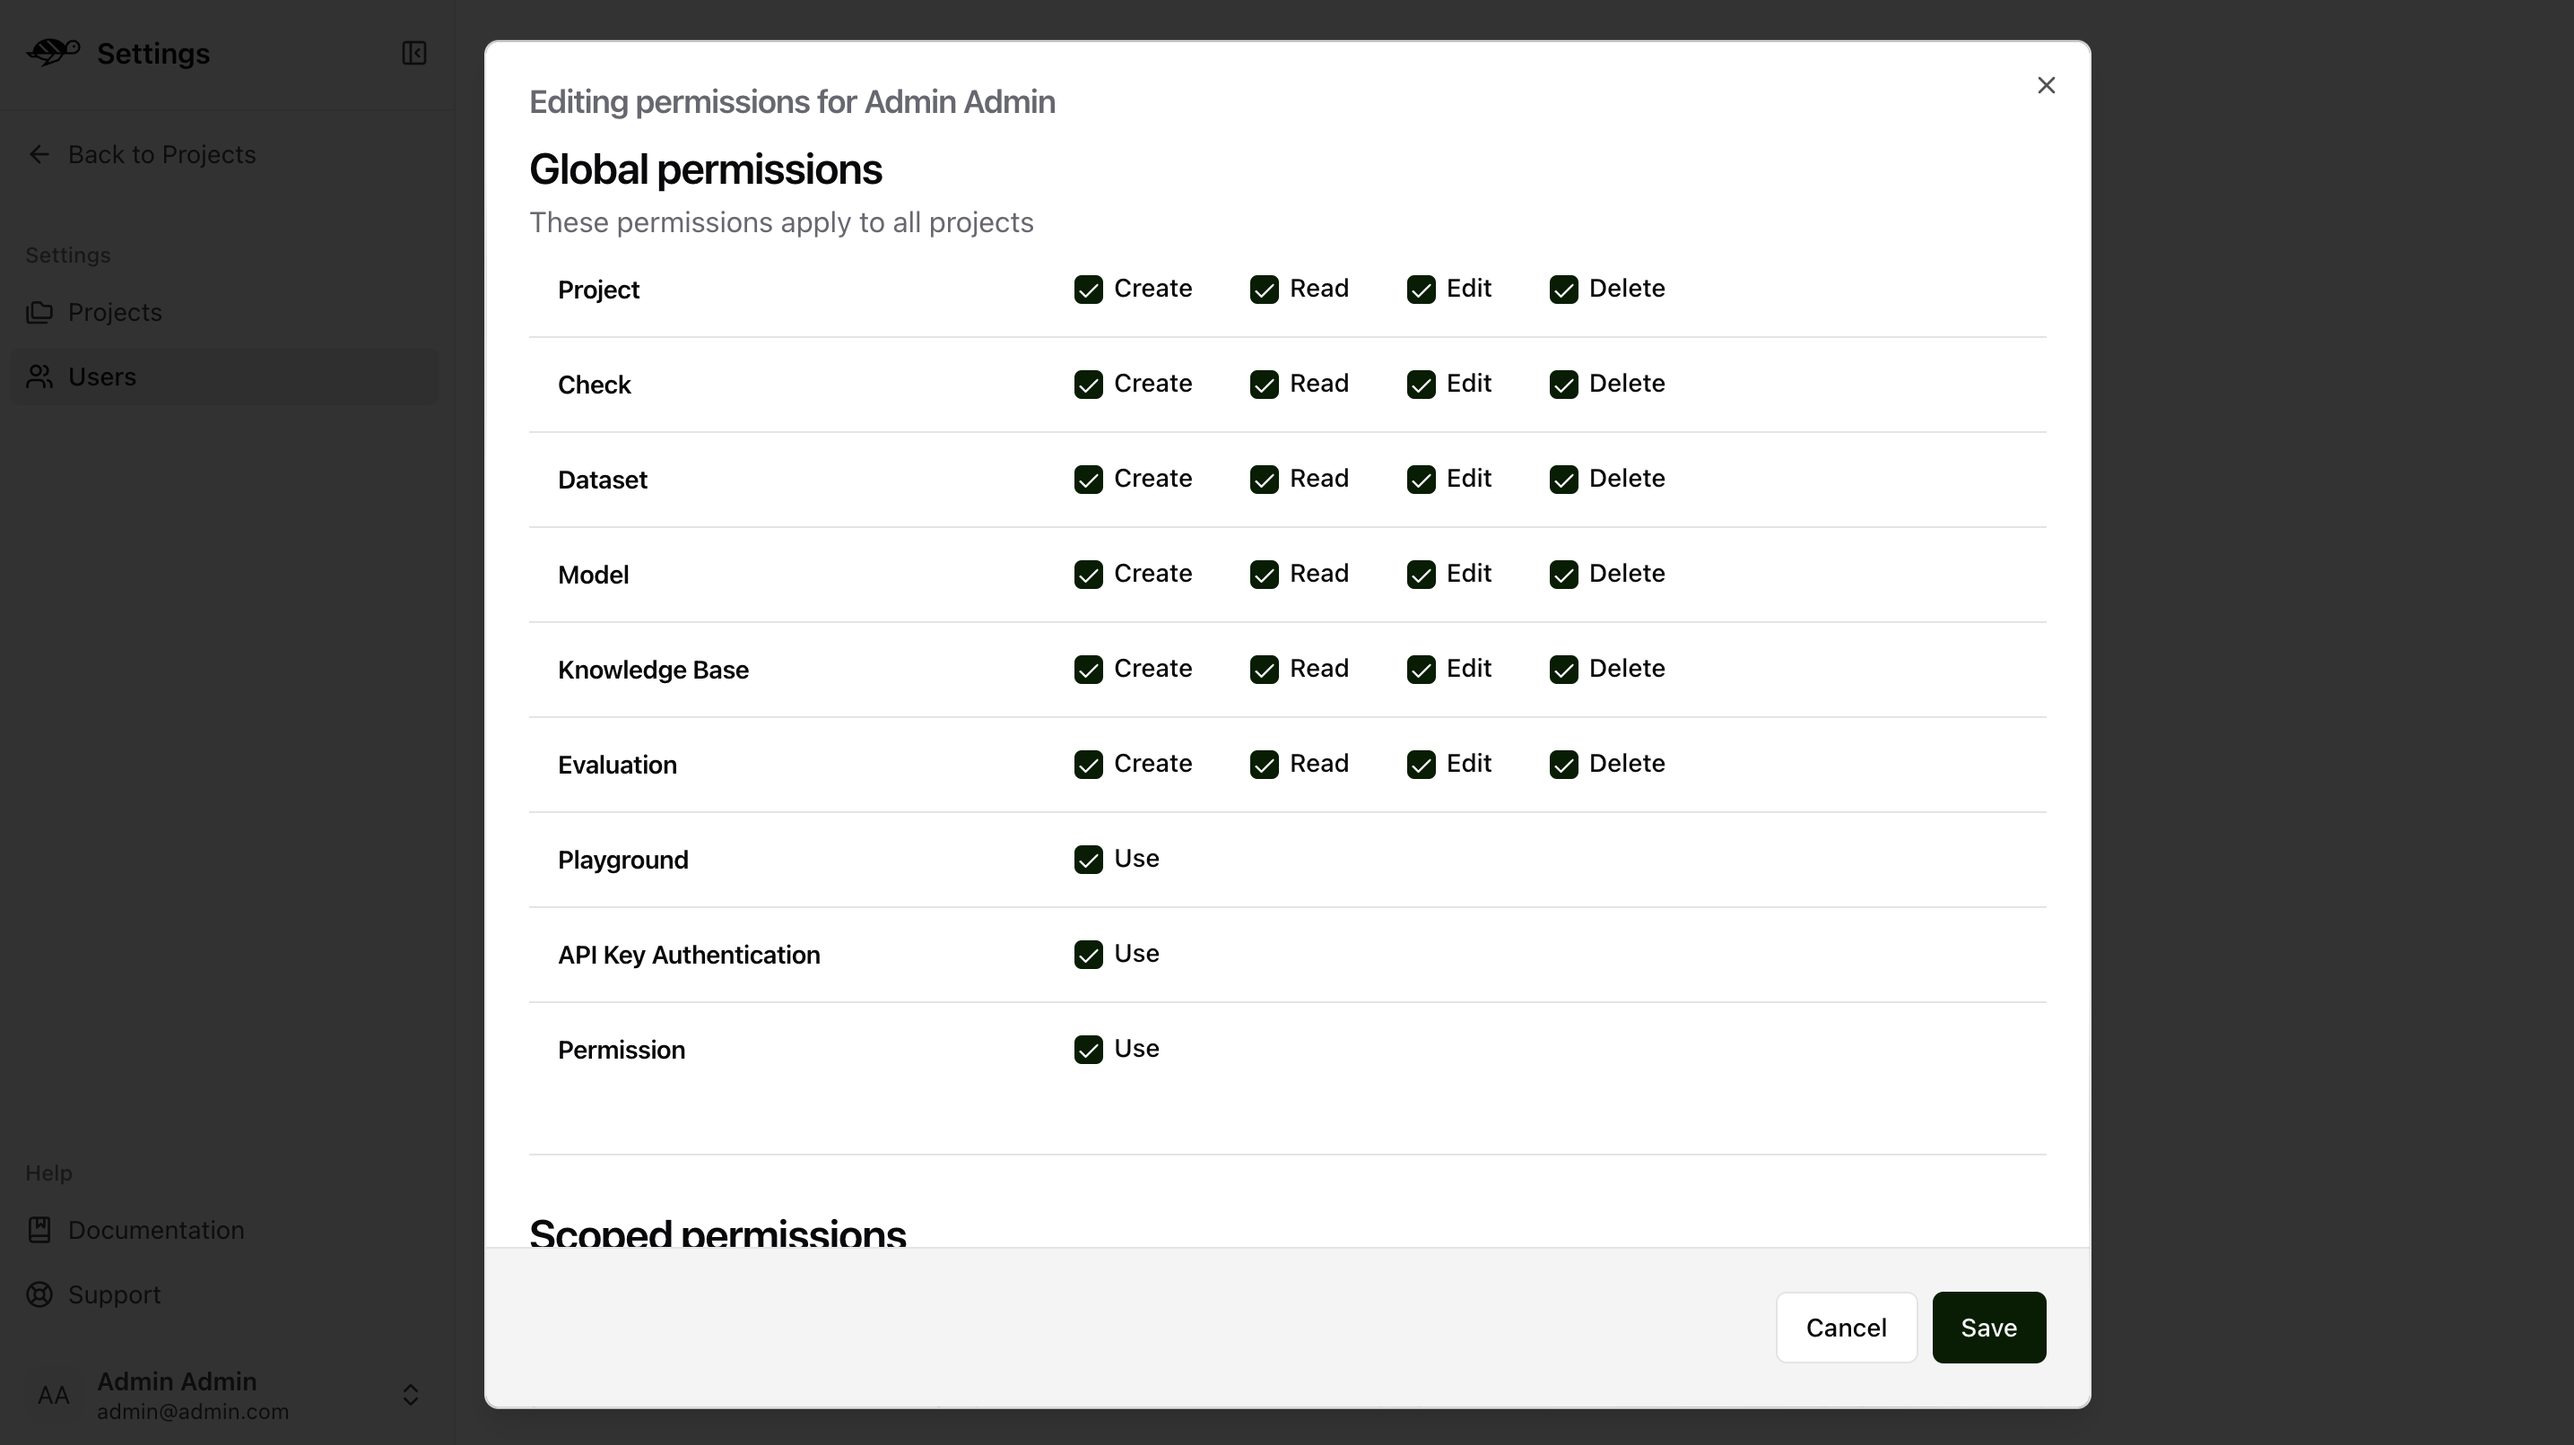
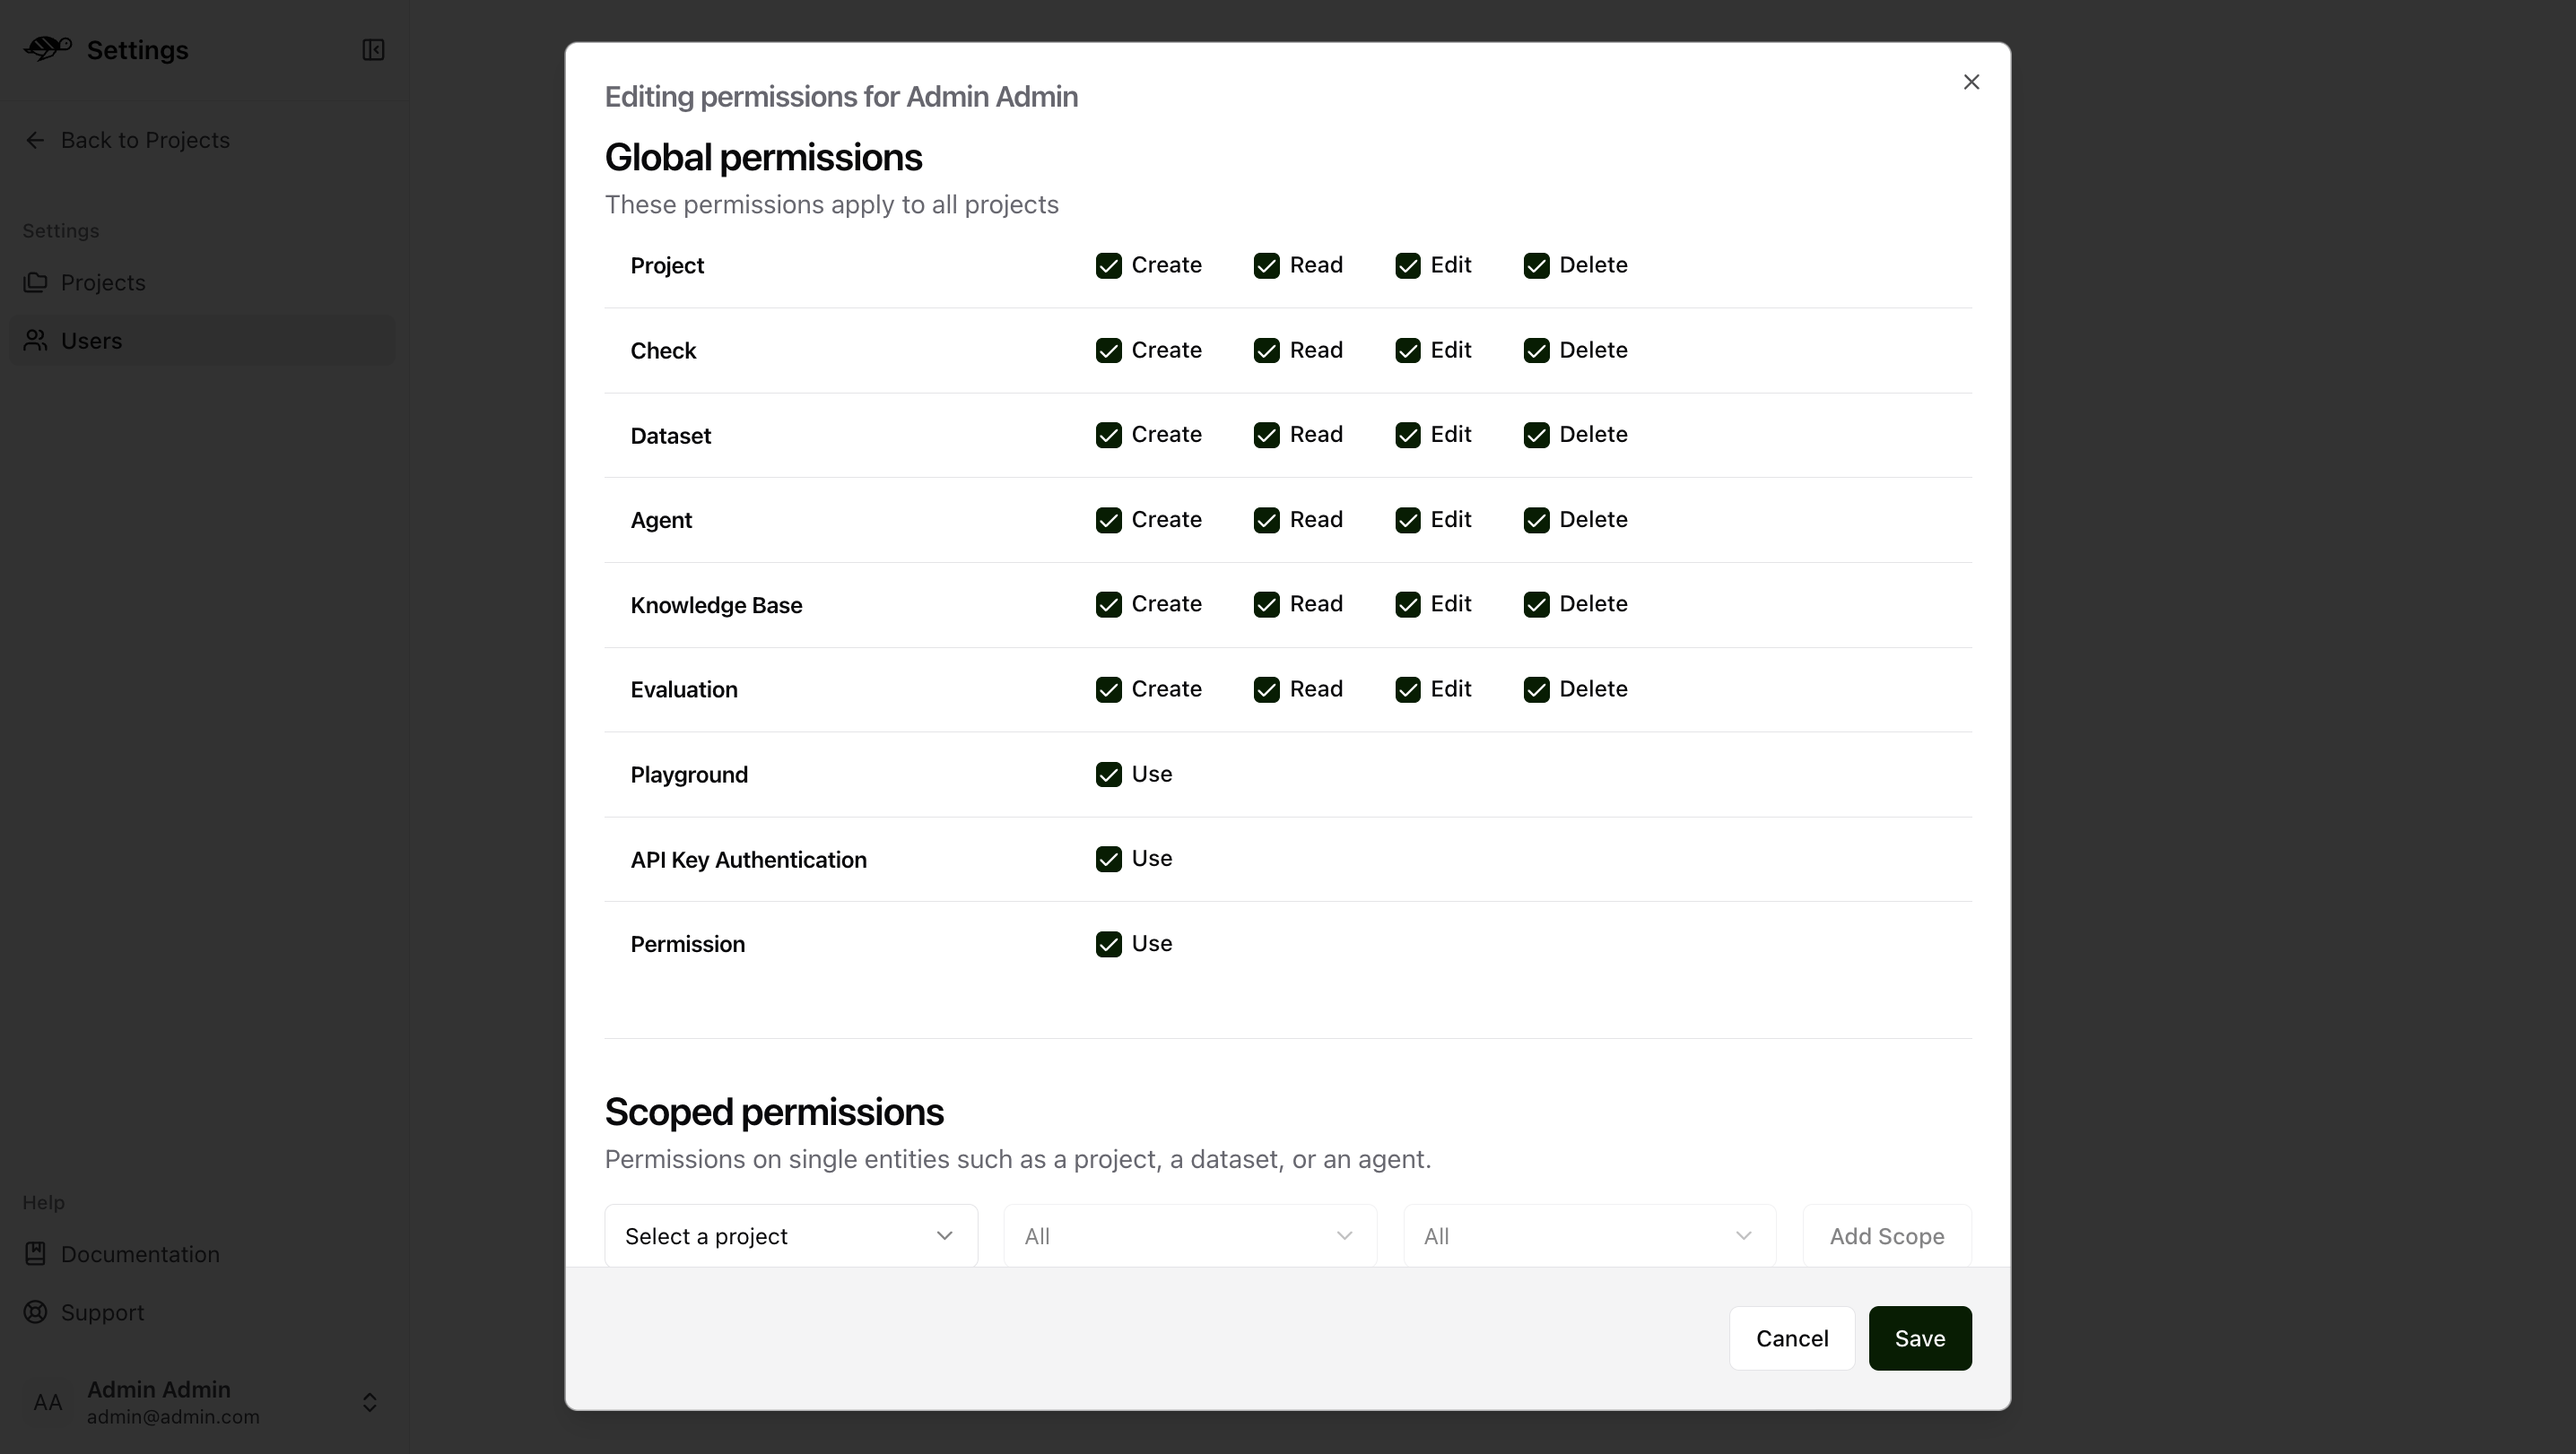
Update access rights doc

diff --git a/script-docs/hub/guide/access-rights.rst b/script-docs/hub/guide/access-rights.rst
@@ -13,7 +13,7 @@ click the "Account" icon in the upper right corner of the screen, then select "S
    :alt: "Access rights"
    :width: 800
 
-Global permissions apply access rights across all projects. You can configure Create, Read, Edit, and Delete permissions for each page or entity. This is available in the following pages: Project, Dataset, Model, Knowledge Base, and Evaluation. Additionally, for features like the Playground, API Key Authentication, and Permission, you can enable or disable the users’ right to use it.
+Global permissions apply access rights across all projects. You can configure Create, Read, Edit, and Delete permissions for each page or entity. This is available in the following pages: Project, Dataset, Agent, Knowledge Base, and Evaluation. Additionally, for features like the Playground, API Key Authentication, and Permission, you can enable or disable the users’ right to use it.
 
 The rights are as follows:
 
